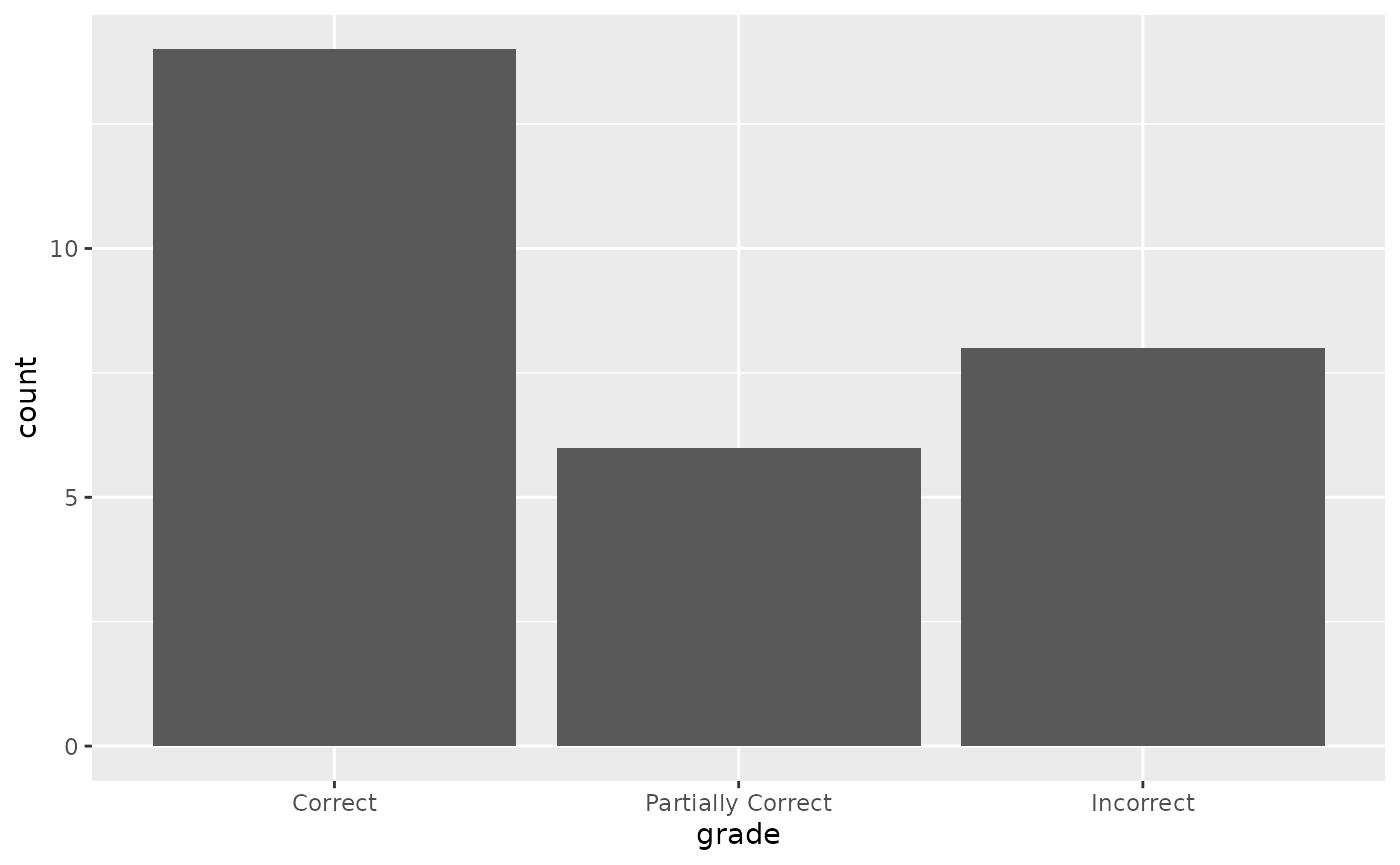
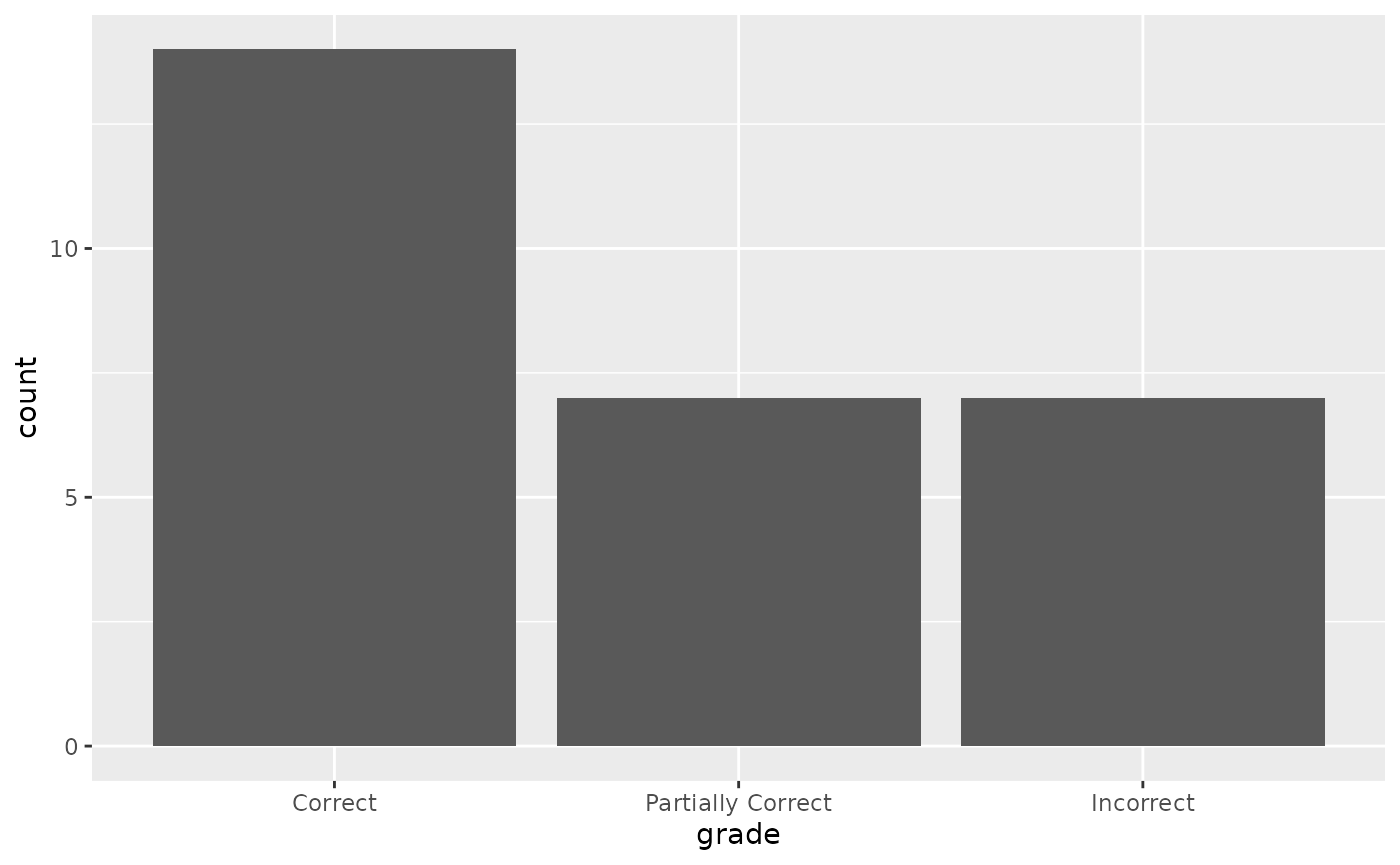
Deploying to gh-pages from @ simonpcouch/rinspect@ab23541644367a2f5bf35ed4198272e6b99d160c 🚀

Changed region(s): [[0.3993, 0.3746, 0.9521, 0.5306]]

diff --git a/articles/rinspect.html b/articles/rinspect.html
@@ -72,9 +72,9 @@ dataset and produce a final result (hopefully) approximating
 <code>target</code>. In rinspect, the simplest solver is just an ellmer
 chat (e.g. <code><a href="https://ellmer.tidyverse.org/reference/chat_claude.html" class="external-link">ellmer::chat_claude()</a></code>) wrapped in
 <code><a href="../reference/generate.html">generate()</a></code>,
-i.e. <code>generate(chat = ellmer::chat_claude()</code>), which will
-call the Chat object’s <code>$chat()</code> method and return whatever
-it returns.</li>
+i.e. <code>generate(ellmer::chat_claude()</code>), which will call the
+Chat object’s <code>$chat()</code> method and return whatever it
+returns.</li>
 <li>
 <strong>Scorers</strong> evaluate the final output of solvers. They
 may use text comparisons, model grading, or other custom schemes to
@@ -179,7 +179,7 @@ in a <code>Task</code>.</li>
 <div class="sourceCode" id="cb8"><pre class="downlit sourceCode r">
 <code class="sourceCode R"><span><span class="va">are_task</span> <span class="op">&lt;-</span> <span class="va"><a href="../reference/Task.html">Task</a></span><span class="op">$</span><span class="fu">new</span><span class="op">(</span></span>
 <span>  dataset <span class="op">=</span> <span class="va">are</span>,</span>
-<span>  solver <span class="op">=</span> <span class="fu"><a href="../reference/generate.html">generate</a></span><span class="op">(</span>chat <span class="op">=</span> <span class="fu"><a href="https://ellmer.tidyverse.org/reference/chat_claude.html" class="external-link">chat_claude</a></span><span class="op">(</span><span class="op">)</span><span class="op">)</span>,</span>
+<span>  solver <span class="op">=</span> <span class="fu"><a href="../reference/generate.html">generate</a></span><span class="op">(</span><span class="fu"><a href="https://ellmer.tidyverse.org/reference/chat_claude.html" class="external-link">chat_claude</a></span><span class="op">(</span><span class="op">)</span><span class="op">)</span>,</span>
 <span>  scorer <span class="op">=</span> <span class="fu"><a href="../reference/scorer_model.html">model_graded_qa</a></span><span class="op">(</span>partial_credit <span class="op">=</span> <span class="cn">TRUE</span><span class="op">)</span>,</span>
 <span>  name <span class="op">=</span> <span class="st">"An R Eval"</span></span>
 <span><span class="op">)</span></span>
@@ -196,21 +196,21 @@ interactive Inspect log viewer.</li>
 scoring steps. Here’s what the model responded to that first question
 with:</p>
 <div class="sourceCode" id="cb10"><pre class="downlit sourceCode r">
-<code class="sourceCode R"><span><span class="fu"><a href="https://rdrr.io/r/base/cat.html" class="external-link">cat</a></span><span class="op">(</span><span class="va">are_task</span><span class="op">$</span><span class="va">samples</span><span class="op">$</span><span class="va">output</span><span class="op">[</span><span class="fl">1</span><span class="op">]</span><span class="op">)</span></span></code></pre></div>
+<code class="sourceCode R"><span><span class="fu"><a href="https://rdrr.io/r/base/cat.html" class="external-link">cat</a></span><span class="op">(</span><span class="va">are_task</span><span class="op">$</span><span class="va">samples</span><span class="op">$</span><span class="va">result</span><span class="op">[</span><span class="fl">1</span><span class="op">]</span><span class="op">)</span></span></code></pre></div>
 <pre><code><span><span class="co">#&gt; Yes, to show proportions instead of counts while maintaining the</span></span>
 <span><span class="co">#&gt; stacked clarity segments, you can use the `position = "fill"` argument</span></span>
-<span><span class="co">#&gt; in `geom_bar()`. This will normalize each bar to the same height (1 or</span></span>
-<span><span class="co">#&gt; 100%) while preserving the relative proportions of clarity within each</span></span>
-<span><span class="co">#&gt; cut. Here's the modified code:</span></span>
+<span><span class="co">#&gt; in `geom_bar()`. Here's the modified code:</span></span>
 <span><span class="co">#&gt; </span></span>
 <span><span class="co">#&gt; ```</span></span>
 <span><span class="co">#&gt; ggplot(data = diamonds) +</span></span>
 <span><span class="co">#&gt; geom_bar(mapping = aes(x = cut, fill = clarity), position = "fill")</span></span>
 <span><span class="co">#&gt; ```</span></span>
 <span><span class="co">#&gt; </span></span>
-<span><span class="co">#&gt; This will create a bar chart where each bar has a total height of 1,</span></span>
-<span><span class="co">#&gt; and the segments within each bar show the proportion of diamonds with</span></span>
-<span><span class="co">#&gt; each clarity level for that particular cut.</span></span></code></pre>
+<span><span class="co">#&gt; This will create a stacked bar chart where each bar has the same height</span></span>
+<span><span class="co">#&gt; (1.0 or 100%), and the segments within each bar show the proportion of</span></span>
+<span><span class="co">#&gt; diamonds with each clarity level within that cut category. This makes</span></span>
+<span><span class="co">#&gt; it easier to compare the relative distribution of clarity across</span></span>
+<span><span class="co">#&gt; different cuts.</span></span></code></pre>
 <p>The task also contains score information from the scoring step. We’ve
 used <code><a href="../reference/scorer_model.html">model_graded_qa()</a></code> as our scorer, which uses another
 model to evaluate the quality of our solver’s solutions against the
@@ -231,31 +231,28 @@ correctly, model grading is an effective and scalable solution to
 scoring. That said, it’s not without its faults. Here’s what the grading
 model thought of the response:</p>
 <div class="sourceCode" id="cb12"><pre class="downlit sourceCode r">
-<code class="sourceCode R"><span><span class="fu"><a href="https://rdrr.io/r/base/cat.html" class="external-link">cat</a></span><span class="op">(</span><span class="va">are_task</span><span class="op">$</span><span class="va">samples</span><span class="op">$</span><span class="va">scorer</span><span class="op">[[</span><span class="fl">1</span><span class="op">]</span><span class="op">]</span><span class="op">$</span><span class="fu">last_turn</span><span class="op">(</span><span class="op">)</span><span class="op">@</span><span class="va">text</span><span class="op">)</span></span>
+<code class="sourceCode R"><span><span class="fu"><a href="https://rdrr.io/r/base/cat.html" class="external-link">cat</a></span><span class="op">(</span><span class="va">are_task</span><span class="op">$</span><span class="va">samples</span><span class="op">$</span><span class="va">scorer_chat</span><span class="op">[[</span><span class="fl">1</span><span class="op">]</span><span class="op">]</span><span class="op">$</span><span class="fu">last_turn</span><span class="op">(</span><span class="op">)</span><span class="op">@</span><span class="va">text</span><span class="op">)</span></span>
 <span><span class="co">#&gt; Let me analyze this:</span></span>
 <span><span class="co">#&gt; </span></span>
-<span><span class="co">#&gt; The submission suggests using `position = "fill"` which will normalize</span></span>
-<span><span class="co">#&gt; each bar to a height of 1 (or 100%). However, this is explicitly stated</span></span>
-<span><span class="co">#&gt; as incorrect in the criterion.</span></span>
+<span><span class="co">#&gt; The submission suggests using `position = "fill"` which makes each bar</span></span>
+<span><span class="co">#&gt; have a height of 1 (or 100%) and shows the relative proportions of</span></span>
+<span><span class="co">#&gt; clarity within each cut category. However, this is explicitly noted as</span></span>
+<span><span class="co">#&gt; incorrect in the criterion.</span></span>
 <span><span class="co">#&gt; </span></span>
-<span><span class="co">#&gt; The criterion specifically wants the proportion to be calculated</span></span>
-<span><span class="co">#&gt; relative to the total number of diamonds in the dataset (using</span></span>
-<span><span class="co">#&gt; `count/sum(count)`), not just normalizing within each cut category.</span></span>
-<span><span class="co">#&gt; This is an important distinction:</span></span>
+<span><span class="co">#&gt; The criterion wants the actual proportion of diamonds with a given cut</span></span>
+<span><span class="co">#&gt; relative to the total number of diamonds (using `count/sum(count)`),</span></span>
+<span><span class="co">#&gt; not just standardized heights within each cut category. This is a</span></span>
+<span><span class="co">#&gt; fundamentally different calculation:</span></span>
 <span><span class="co">#&gt; </span></span>
-<span><span class="co">#&gt; - `position = "fill"` makes each bar sum to 1, showing the relative</span></span>
-<span><span class="co">#&gt; distribution within each cut</span></span>
-<span><span class="co">#&gt; - `y = after_stat(count) / sum(after_stat(count))` shows the true</span></span>
-<span><span class="co">#&gt; proportion of each cut relative to the total number of diamonds</span></span>
+<span><span class="co">#&gt; - `position = "fill"` shows the distribution of clarity within each cut</span></span>
+<span><span class="co">#&gt; (each bar sums to 1)</span></span>
+<span><span class="co">#&gt; - `y = after_stat(count)/sum(after_stat(count))` shows the true</span></span>
+<span><span class="co">#&gt; proportion of each cut relative to the total dataset</span></span>
 <span><span class="co">#&gt; </span></span>
 <span><span class="co">#&gt; The submission's approach would give misleading results as it doesn't</span></span>
-<span><span class="co">#&gt; show the actual proportion of diamonds with each cut in the overall</span></span>
-<span><span class="co">#&gt; dataset. It's showing something different (the relative distribution of</span></span>
-<span><span class="co">#&gt; clarity within each cut).</span></span>
-<span><span class="co">#&gt; </span></span>
-<span><span class="co">#&gt; Since the solution provided is explicitly mentioned as incorrect in the</span></span>
-<span><span class="co">#&gt; criterion and produces different results from what was asked for, this</span></span>
-<span><span class="co">#&gt; is an incorrect answer.</span></span>
+<span><span class="co">#&gt; show the actual proportions of cuts in the dataset, which is what was</span></span>
+<span><span class="co">#&gt; specifically asked for. The solution provided is incorrect according to</span></span>
+<span><span class="co">#&gt; the specified criterion.</span></span>
 <span><span class="co">#&gt; </span></span>
 <span><span class="co">#&gt; GRADE: I</span></span></code></pre></div>
 </div>
@@ -297,7 +294,7 @@ vs. partially correct vs. incorrect answers:</p>
 <span>  <span class="fu"><a href="https://ggplot2.tidyverse.org/reference/geom_bar.html" class="external-link">geom_bar</a></span><span class="op">(</span><span class="op">)</span></span></code></pre></div>
 <p><img src="rinspect_files/figure-html/plot-1-1.png" alt="A ggplot2 bar plot, showing Claude was correct most of the time." width="700"></p>
 <p>Claude answered fully correctly in 14 out of 28 samples, and
-partially correctly 6 times. For me, this leads to all sorts of
+partially correctly 7 times. For me, this leads to all sorts of
 questions:</p>
 <ul>
 <li>Are there any models that are cheaper than Claude that would do just
@@ -316,7 +313,7 @@ OpenAI’s GPT-4o, we just need to clone the object and then run
 <code>$eval()</code> with a different solver <code>chat</code>:</p>
 <div class="sourceCode" id="cb14"><pre class="downlit sourceCode r">
 <code class="sourceCode R"><span><span class="va">are_task_openai</span> <span class="op">&lt;-</span> <span class="va">are_task</span><span class="op">$</span><span class="fu">clone</span><span class="op">(</span><span class="op">)</span></span>
-<span><span class="va">are_task_openai</span><span class="op">$</span><span class="fu">eval</span><span class="op">(</span>chat <span class="op">=</span> <span class="fu"><a href="https://ellmer.tidyverse.org/reference/chat_openai.html" class="external-link">chat_openai</a></span><span class="op">(</span>model <span class="op">=</span> <span class="st">"gpt-4o"</span><span class="op">)</span><span class="op">)</span></span></code></pre></div>
+<span><span class="va">are_task_openai</span><span class="op">$</span><span class="fu">eval</span><span class="op">(</span>solver_chat <span class="op">=</span> <span class="fu"><a href="https://ellmer.tidyverse.org/reference/chat_openai.html" class="external-link">chat_openai</a></span><span class="op">(</span>model <span class="op">=</span> <span class="st">"gpt-4o"</span><span class="op">)</span><span class="op">)</span></span></code></pre></div>
 <p>Any arguments to solving or scoring functions can be passed directly
 to <code>$eval()</code>, allowing for quickly evaluating tasks across
 several parameterizations.</p>
@@ -326,8 +323,8 @@ several parameterizations.</p>
 <code class="sourceCode R"><span><span class="va">get_model</span> <span class="op">&lt;-</span> <span class="kw">function</span><span class="op">(</span><span class="va">c</span><span class="op">)</span> <span class="va">c</span><span class="op">$</span><span class="fu">get_model</span><span class="op">(</span><span class="op">)</span></span>
 <span><span class="va">are_task_eval</span> <span class="op">&lt;-</span></span>
 <span>  <span class="fu"><a href="https://dplyr.tidyverse.org/reference/bind_rows.html" class="external-link">bind_rows</a></span><span class="op">(</span></span>
-<span>    <span class="fu"><a href="https://dplyr.tidyverse.org/reference/mutate.html" class="external-link">mutate</a></span><span class="op">(</span><span class="va">are_task_data</span>, model <span class="op">=</span> <span class="fu">purrr</span><span class="fu">::</span><span class="fu"><a href="https://purrr.tidyverse.org/reference/map.html" class="external-link">map_chr</a></span><span class="op">(</span><span class="va">scorer</span>, <span class="va">get_model</span><span class="op">)</span><span class="op">)</span>, </span>
-<span>    <span class="fu"><a href="https://dplyr.tidyverse.org/reference/mutate.html" class="external-link">mutate</a></span><span class="op">(</span><span class="va">are_task_openai</span><span class="op">$</span><span class="va">samples</span>, model <span class="op">=</span> <span class="fu">purrr</span><span class="fu">::</span><span class="fu"><a href="https://purrr.tidyverse.org/reference/map.html" class="external-link">map_chr</a></span><span class="op">(</span><span class="va">scorer</span>, <span class="va">get_model</span><span class="op">)</span><span class="op">)</span></span>
+<span>    <span class="fu"><a href="https://dplyr.tidyverse.org/reference/mutate.html" class="external-link">mutate</a></span><span class="op">(</span><span class="va">are_task_data</span>, model <span class="op">=</span> <span class="fu">purrr</span><span class="fu">::</span><span class="fu"><a href="https://purrr.tidyverse.org/reference/map.html" class="external-link">map_chr</a></span><span class="op">(</span><span class="va">solver_chat</span>, <span class="va">get_model</span><span class="op">)</span><span class="op">)</span>, </span>
+<span>    <span class="fu"><a href="https://dplyr.tidyverse.org/reference/mutate.html" class="external-link">mutate</a></span><span class="op">(</span><span class="va">are_task_openai</span><span class="op">$</span><span class="va">samples</span>, model <span class="op">=</span> <span class="fu">purrr</span><span class="fu">::</span><span class="fu"><a href="https://purrr.tidyverse.org/reference/map.html" class="external-link">map_chr</a></span><span class="op">(</span><span class="va">solver_chat</span>, <span class="va">get_model</span><span class="op">)</span><span class="op">)</span></span>
 <span>  <span class="op">)</span> <span class="op"><a href="https://magrittr.tidyverse.org/reference/pipe.html" class="external-link">%&gt;%</a></span></span>
 <span>    <span class="fu"><a href="https://dplyr.tidyverse.org/reference/mutate.html" class="external-link">mutate</a></span><span class="op">(</span>grade <span class="op">=</span> <span class="fu"><a href="https://dplyr.tidyverse.org/reference/case_when.html" class="external-link">case_when</a></span><span class="op">(</span></span>
 <span>      <span class="va">score</span> <span class="op">==</span> <span class="fl">1</span> <span class="op">~</span> <span class="st">"Correct"</span>,</span>

diff --git a/reference/scorer_model.html b/reference/scorer_model.html
@@ -62,7 +62,7 @@ default <code>template</code> to evaluate correctness.</p>
 <span>  instructions <span class="op">=</span> <span class="cn">NULL</span>,</span>
 <span>  grade_pattern <span class="op">=</span> <span class="st">"(?i)GRADE\\s*:\\s*([CPI])(.*)$"</span>,</span>
 <span>  partial_credit <span class="op">=</span> <span class="cn">FALSE</span>,</span>
-<span>  chat <span class="op">=</span> <span class="cn">NULL</span></span>
+<span>  scorer_chat <span class="op">=</span> <span class="cn">NULL</span></span>
 <span><span class="op">)</span></span>
 <span></span>
 <span><span class="fu">model_graded_fact</span><span class="op">(</span></span>
@@ -70,7 +70,7 @@ default <code>template</code> to evaluate correctness.</p>
 <span>  instructions <span class="op">=</span> <span class="cn">NULL</span>,</span>
 <span>  grade_pattern <span class="op">=</span> <span class="st">"(?i)GRADE\\s*:\\s*([CPI])(.*)$"</span>,</span>
 <span>  partial_credit <span class="op">=</span> <span class="cn">FALSE</span>,</span>
-<span>  chat <span class="op">=</span> <span class="cn">NULL</span></span>
+<span>  scorer_chat <span class="op">=</span> <span class="cn">NULL</span></span>
 <span><span class="op">)</span></span></code></pre></div>
     </div>
 
@@ -96,7 +96,7 @@ judge model's response.</p></dd>
 <dd><p>Whether to allow partial credit.</p></dd>
 
 
-<dt id="arg-chat">chat<a class="anchor" aria-label="anchor" href="#arg-chat"></a></dt>
+<dt id="arg-scorer-chat">scorer_chat<a class="anchor" aria-label="anchor" href="#arg-scorer-chat"></a></dt>
 <dd><p>An ellmer chat used to grade the model output, e.g.
 <code><a href="https://ellmer.tidyverse.org/reference/chat_claude.html" class="external-link">ellmer::chat_claude()</a></code>.</p></dd>
 
@@ -130,7 +130,7 @@ The function that <code>model_graded_qa()</code>'s outputs can be passed directl
 <span class="r-in"><span></span></span>
 <span class="r-in"><span>  <span class="va">tsk</span> <span class="op">&lt;-</span> <span class="va"><a href="Task.html">Task</a></span><span class="op">$</span><span class="fu">new</span><span class="op">(</span></span></span>
 <span class="r-in"><span>    dataset <span class="op">=</span> <span class="va">simple_addition</span>, </span></span>
-<span class="r-in"><span>    solver <span class="op">=</span> <span class="fu"><a href="generate.html">generate</a></span><span class="op">(</span>chat <span class="op">=</span> <span class="fu"><a href="https://ellmer.tidyverse.org/reference/chat_claude.html" class="external-link">chat_claude</a></span><span class="op">(</span><span class="op">)</span><span class="op">)</span>, </span></span>
+<span class="r-in"><span>    solver <span class="op">=</span> <span class="fu"><a href="generate.html">generate</a></span><span class="op">(</span>solver_chat <span class="op">=</span> <span class="fu"><a href="https://ellmer.tidyverse.org/reference/chat_claude.html" class="external-link">chat_claude</a></span><span class="op">(</span><span class="op">)</span><span class="op">)</span>, </span></span>
 <span class="r-in"><span>    scorer <span class="op">=</span> <span class="fu">model_graded_qa</span><span class="op">(</span><span class="op">)</span></span></span>
 <span class="r-in"><span>  <span class="op">)</span></span></span>
 <span class="r-in"><span>  </span></span>
@@ -154,7 +154,7 @@ The function that <code>model_graded_qa()</code>'s outputs can be passed directl
 <span class="r-in"><span></span></span>
 <span class="r-in"><span>  <span class="va">tsk</span> <span class="op">&lt;-</span> <span class="va"><a href="Task.html">Task</a></span><span class="op">$</span><span class="fu">new</span><span class="op">(</span></span></span>
 <span class="r-in"><span>    dataset <span class="op">=</span> <span class="va">r_history</span>, </span></span>
-<span class="r-in"><span>    solver <span class="op">=</span> <span class="fu"><a href="generate.html">generate</a></span><span class="op">(</span>chat <span class="op">=</span> <span class="fu"><a href="https://ellmer.tidyverse.org/reference/chat_claude.html" class="external-link">chat_claude</a></span><span class="op">(</span><span class="op">)</span><span class="op">)</span>, </span></span>
+<span class="r-in"><span>    solver <span class="op">=</span> <span class="fu"><a href="generate.html">generate</a></span><span class="op">(</span>solver_chat <span class="op">=</span> <span class="fu"><a href="https://ellmer.tidyverse.org/reference/chat_claude.html" class="external-link">chat_claude</a></span><span class="op">(</span><span class="op">)</span><span class="op">)</span>, </span></span>
 <span class="r-in"><span>    scorer <span class="op">=</span> <span class="fu">model_graded_fact</span><span class="op">(</span><span class="op">)</span></span></span>
 <span class="r-in"><span>  <span class="op">)</span></span></span>
 <span class="r-in"><span>  </span></span>

diff --git a/reference/Task.html b/reference/Task.html
@@ -81,12 +81,13 @@ scoring.</p></div>
     <h2 id="public-fields">Public fields<a class="anchor" aria-label="anchor" href="#public-fields"></a></h2>
     <p></p><div class="r6-fields"><dl><dt><code>dir</code></dt>
 <dd><p>The directory where evaluation logs will be written to. Defaults
-to <code>Sys.getenv("INSPECT_LOG_DIR")</code>.</p></dd>
+to <code><a href="inspect_log_dir.html">inspect_log_dir()</a></code>.</p></dd>
 
 
 <dt><code>samples</code></dt>
 <dd><p>A tibble representing the evaluation. Based on the <code>dataset</code>,
-the solver and scorer will append columns to this data.</p></dd>
+<code>epochs</code> may duplicate rows, and the solver and scorer will append
+columns to this data.</p></dd>
 
 
 <dt><code>solver</code></dt>
@@ -134,11 +135,10 @@ the solver and scorer will append columns to this data.</p></dd>
 <dt><code>solver</code></dt>
 <dd><p>A function that takes the vector <code>dataset$input</code> as its first
 argument and determines a value approximating <code>dataset$target</code>.
-Its return value should be a list with elements <code>outputs</code> (a vector of the
-final responses, the same length as <code>dataset$input</code>) and <code>solvers</code>
+Its return value should be a list with elements <code>result</code> (a vector of the
+final responses, the same length as <code>dataset$input</code>) and <code>solver_chat</code>
 (the list of ellmer chats used to solve the inputs, also the same length
-as <code>dataset$input</code>). Or, just supply an ellmer chat
-(e.g. <code><a href="https://ellmer.tidyverse.org/reference/chat_claude.html" class="external-link">ellmer::chat_claude()</a></code>) and rinspect will take care of the details.</p></dd>
+as <code>dataset$input</code>). See <code><a href="generate.html">generate()</a></code> for the simplest example.</p></dd>
 
 
 <dt><code>scorer</code></dt>
@@ -298,7 +298,7 @@ automatically in <code>$eval()</code>.</p><div class="section">
 <span class="r-in"><span>  <span class="co"># create a new Task</span></span></span>
 <span class="r-in"><span>  <span class="va">tsk</span> <span class="op">&lt;-</span> <span class="va">Task</span><span class="op">$</span><span class="fu">new</span><span class="op">(</span></span></span>
 <span class="r-in"><span>    dataset <span class="op">=</span> <span class="va">simple_addition</span>,</span></span>
-<span class="r-in"><span>    solver <span class="op">=</span> <span class="fu"><a href="generate.html">generate</a></span><span class="op">(</span>chat <span class="op">=</span> <span class="fu"><a href="https://ellmer.tidyverse.org/reference/chat_claude.html" class="external-link">chat_claude</a></span><span class="op">(</span><span class="op">)</span><span class="op">)</span>,</span></span>
+<span class="r-in"><span>    solver <span class="op">=</span> <span class="fu"><a href="generate.html">generate</a></span><span class="op">(</span><span class="fu"><a href="https://ellmer.tidyverse.org/reference/chat_claude.html" class="external-link">chat_claude</a></span><span class="op">(</span><span class="op">)</span><span class="op">)</span>,</span></span>
 <span class="r-in"><span>    scorer <span class="op">=</span> <span class="fu"><a href="scorer_model.html">model_graded_qa</a></span><span class="op">(</span><span class="op">)</span></span></span>
 <span class="r-in"><span>  <span class="op">)</span></span></span>
 <span class="r-in"><span></span></span>

diff --git a/reference/generate.html b/reference/generate.html
@@ -45,23 +45,26 @@ its raw responses.</p>
 
     <div class="section level2">
     <h2 id="ref-usage">Usage<a class="anchor" aria-label="anchor" href="#ref-usage"></a></h2>
-    <div class="sourceCode"><pre class="sourceCode r"><code><span><span class="fu">generate</span><span class="op">(</span><span class="va">chat</span><span class="op">)</span></span></code></pre></div>
+    <div class="sourceCode"><pre class="sourceCode r"><code><span><span class="fu">generate</span><span class="op">(</span><span class="va">solver_chat</span><span class="op">)</span></span></code></pre></div>
     </div>
 
     <div class="section level2">
     <h2 id="arguments">Arguments<a class="anchor" aria-label="anchor" href="#arguments"></a></h2>
 
 
-<dl><dt id="arg-chat">chat<a class="anchor" aria-label="anchor" href="#arg-chat"></a></dt>
+<dl><dt id="arg-solver-chat">solver_chat<a class="anchor" aria-label="anchor" href="#arg-solver-chat"></a></dt>
 <dd><p>An ellmer chat object, such as from <code><a href="https://ellmer.tidyverse.org/reference/chat_claude.html" class="external-link">ellmer::chat_claude()</a></code>.</p></dd>
 
 </dl></div>
     <div class="section level2">
     <h2 id="value">Value<a class="anchor" aria-label="anchor" href="#value"></a></h2>
     <p>The output of <code>generate()</code> is another function. That function takes in
-a vector of <code>input</code>s and returns a list of length 2:</p><ul><li><p><code>[[1]]</code> is the final response from the solver, and</p></li>
+a vector of <code>input</code>s, as well as a solver chat by the
+name of <code>solver_chat</code> with the default supplied to <code>generate()</code> itself,
+and returns a list of length 2:</p><ul><li><p><code>[[1]]</code> is the final response from the solver, and</p></li>
 <li><p><code>[[2]]</code> are the ellmer chat objects that led to that answer.</p></li>
-</ul><p>The <code>input</code>s are evaluated in parallel, not in the sense of multiple R
+</ul><p>Both slots should have length equal to the number of <code>input</code>s.
+The <code>input</code>s are evaluated in parallel, not in the sense of multiple R
 sessions, but in the sense of multiple, asynchronous HTTP requests using
 <code>$chat_parallel()</code>.</p>
     </div>

diff --git a/reference/scorer_detect.html b/reference/scorer_detect.html
@@ -152,7 +152,7 @@ scoring.</p></div>
 <span class="r-in"><span>  <span class="co"># create a new Task</span></span></span>
 <span class="r-in"><span>  <span class="va">tsk</span> <span class="op">&lt;-</span> <span class="va"><a href="Task.html">Task</a></span><span class="op">$</span><span class="fu">new</span><span class="op">(</span></span></span>
 <span class="r-in"><span>    dataset <span class="op">=</span> <span class="va">simple_addition</span>, </span></span>
-<span class="r-in"><span>    solver <span class="op">=</span> <span class="fu"><a href="generate.html">generate</a></span><span class="op">(</span>chat <span class="op">=</span> <span class="fu"><a href="https://ellmer.tidyverse.org/reference/chat_claude.html" class="external-link">chat_claude</a></span><span class="op">(</span><span class="op">)</span><span class="op">)</span>, </span></span>
+<span class="r-in"><span>    solver <span class="op">=</span> <span class="fu"><a href="generate.html">generate</a></span><span class="op">(</span>solver_chat <span class="op">=</span> <span class="fu"><a href="https://ellmer.tidyverse.org/reference/chat_claude.html" class="external-link">chat_claude</a></span><span class="op">(</span><span class="op">)</span><span class="op">)</span>, </span></span>
 <span class="r-in"><span>    scorer <span class="op">=</span> <span class="fu">detect_includes</span><span class="op">(</span><span class="op">)</span></span></span>
 <span class="r-in"><span>  <span class="op">)</span></span></span>
 <span class="r-in"><span>  </span></span>

diff --git a/index.html b/index.html
@@ -84,7 +84,7 @@
 <span></span>
 <span><span class="va">tsk</span> <span class="op">&lt;-</span> <span class="va"><a href="reference/Task.html">Task</a></span><span class="op">$</span><span class="fu">new</span><span class="op">(</span></span>
 <span>  dataset <span class="op">=</span> <span class="va">simple_addition</span>, </span>
-<span>  solver <span class="op">=</span> <span class="fu"><a href="reference/generate.html">generate</a></span><span class="op">(</span>chat <span class="op">=</span> <span class="fu"><a href="https://ellmer.tidyverse.org/reference/chat_claude.html" class="external-link">chat_claude</a></span><span class="op">(</span><span class="op">)</span><span class="op">)</span>, </span>
+<span>  solver <span class="op">=</span> <span class="fu"><a href="reference/generate.html">generate</a></span><span class="op">(</span><span class="fu"><a href="https://ellmer.tidyverse.org/reference/chat_claude.html" class="external-link">chat_claude</a></span><span class="op">(</span><span class="op">)</span><span class="op">)</span>, </span>
 <span>  scorer <span class="op">=</span> <span class="fu"><a href="reference/scorer_model.html">model_graded_qa</a></span><span class="op">(</span><span class="op">)</span></span>
 <span><span class="op">)</span></span></code></pre></div>
 <p>Tasks are composed of three main components:</p>

diff --git a/reference/inspect_log_dir.html b/reference/inspect_log_dir.html
@@ -72,7 +72,7 @@ additionally sets it to a new value.</p>
 <span class="r-in"><span><span class="fu">inspect_log_dir_set</span><span class="op">(</span><span class="va">dir</span><span class="op">)</span></span></span>
 <span class="r-in"><span></span></span>
 <span class="r-in"><span><span class="fu">inspect_log_dir</span><span class="op">(</span><span class="op">)</span></span></span>
-<span class="r-out co"><span class="r-pr">#&gt;</span> [1] "/tmp/RtmpZsZFE8"</span>
+<span class="r-out co"><span class="r-pr">#&gt;</span> [1] "/tmp/RtmpGJHjVk"</span>
 </code></pre></div>
     </div>
   </main><aside class="col-md-3"><nav id="toc" aria-label="Table of contents"><h2>On this page</h2>
